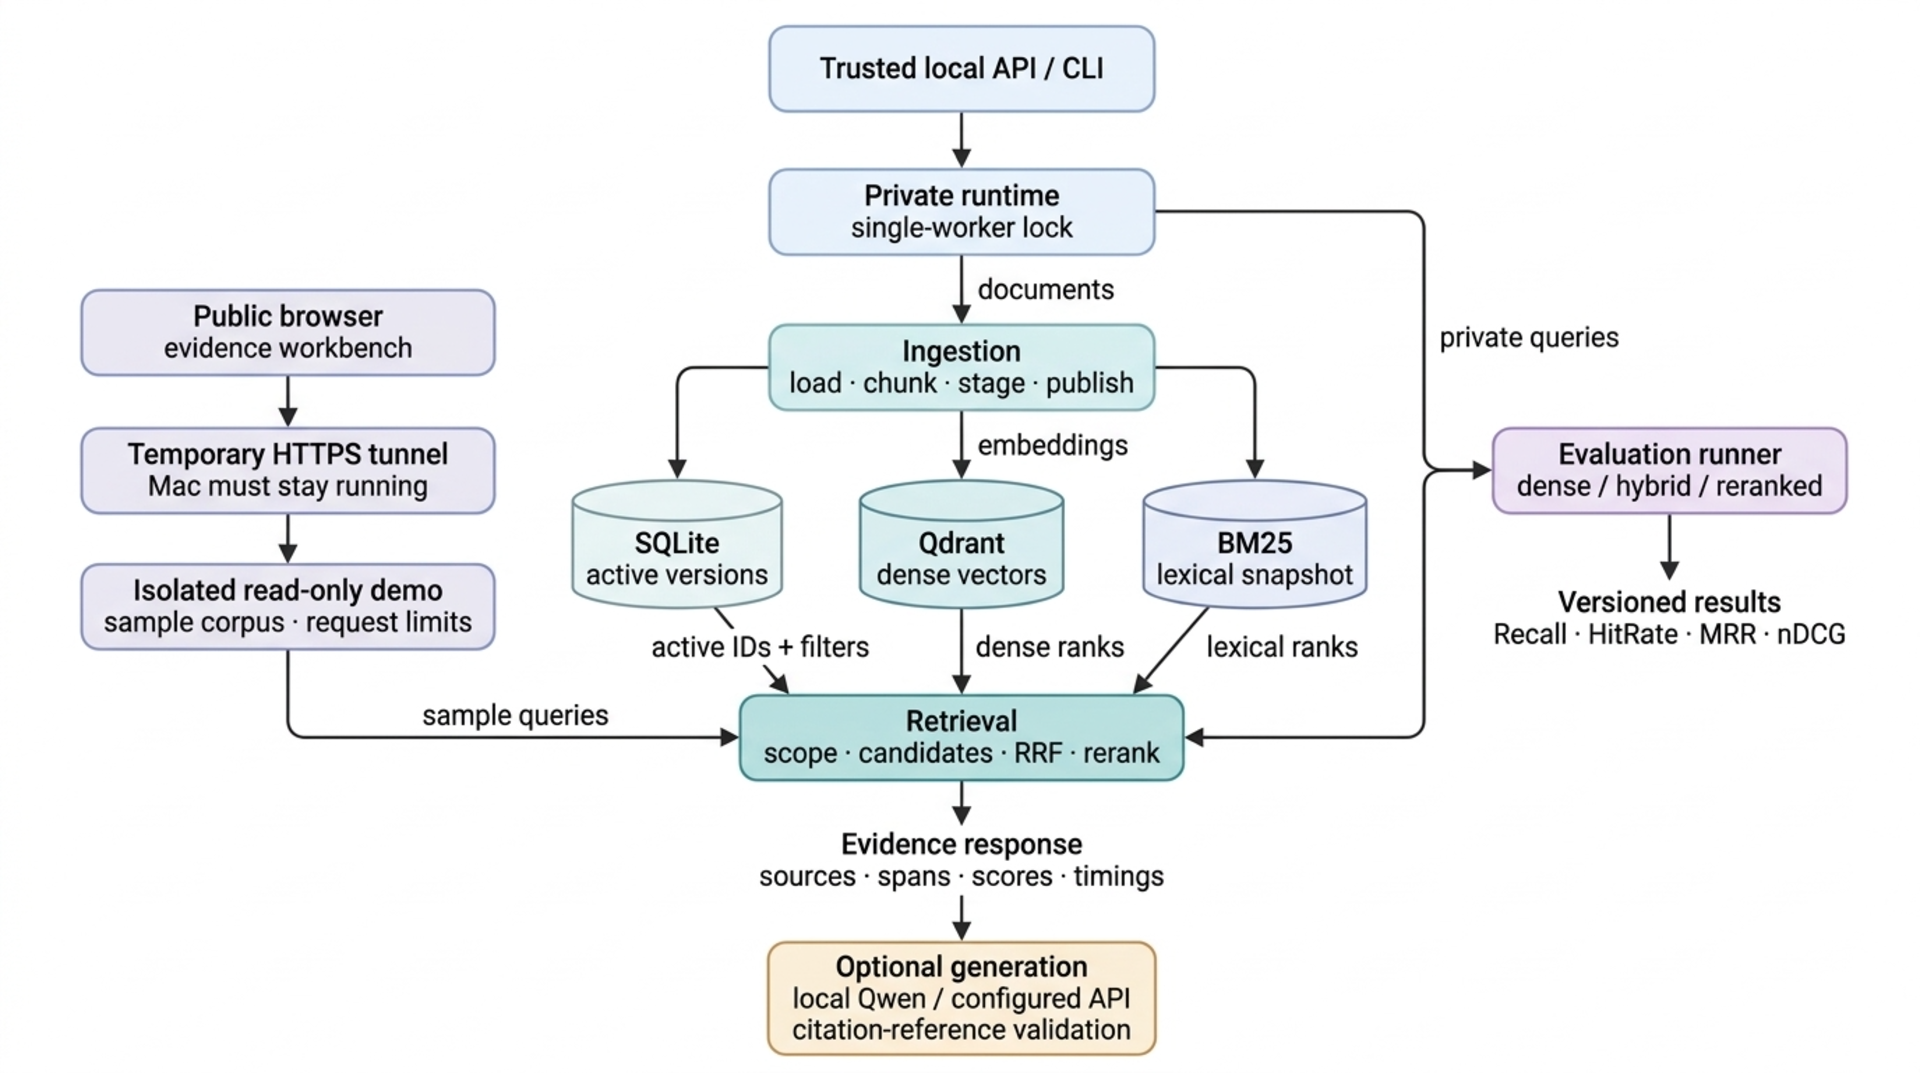
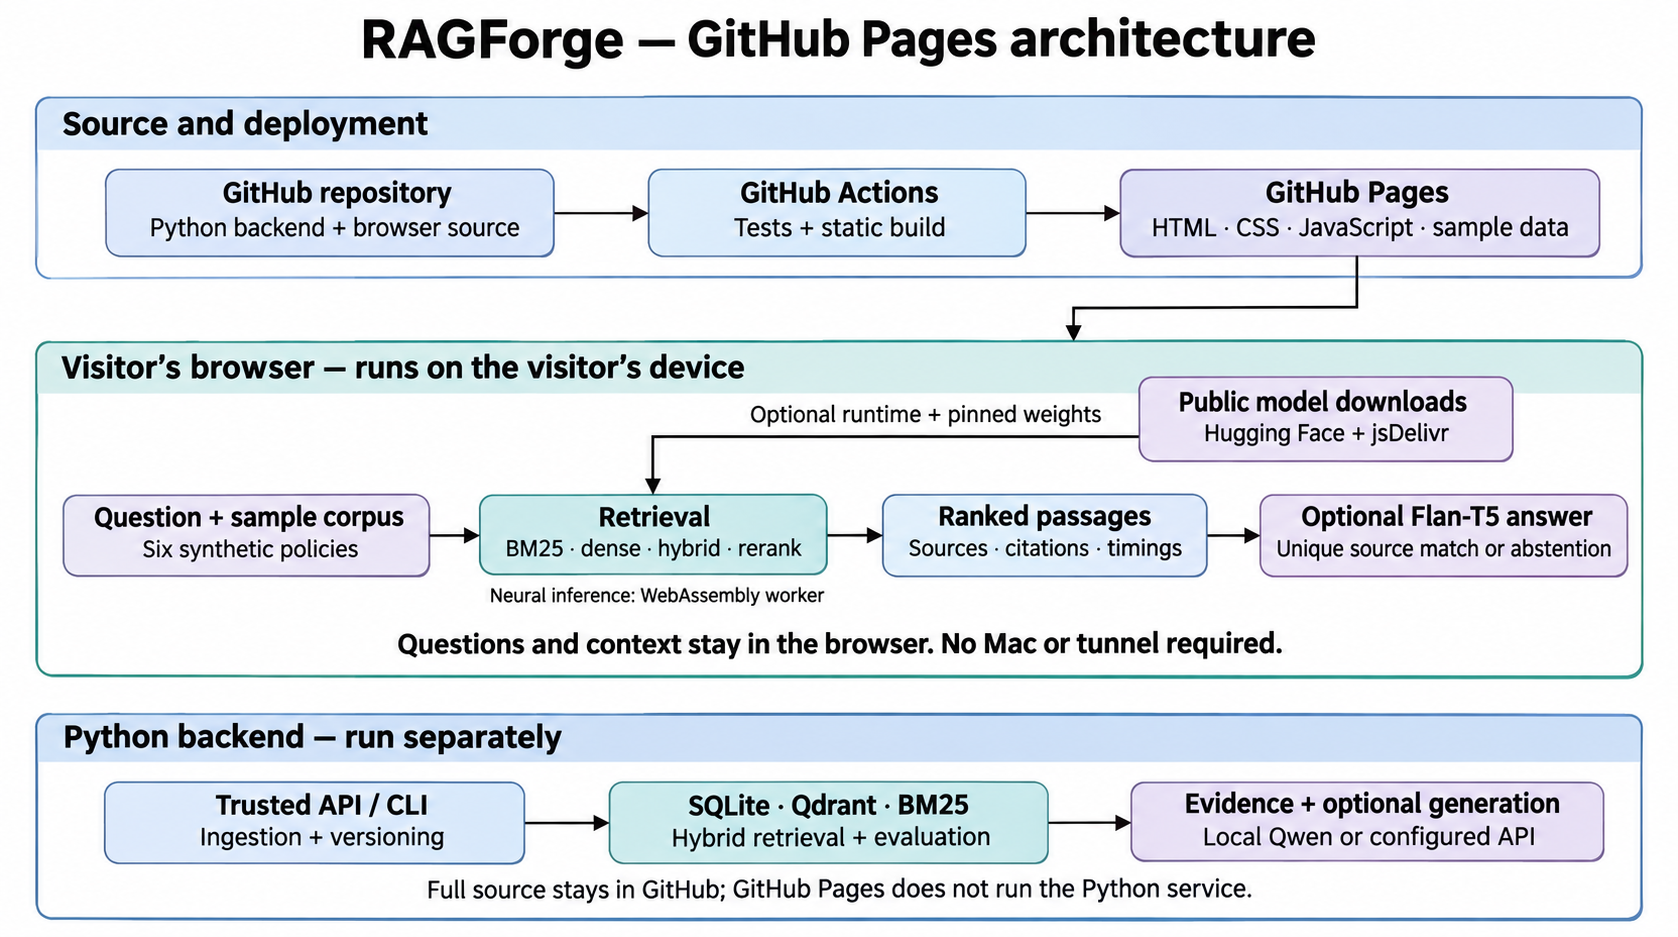
Update architecture diagram for GitHub Pages and browser inference

diff --git a/src/ragforge/demo/static/index.html b/src/ragforge/demo/static/index.html
@@ -59,10 +59,10 @@
       </section>
       <section id="architecture" hidden>
         <h1>Architecture</h1>
-        <p class="intro">In the hosted GitHub Pages edition, your browser ranks the documents and runs optional models in a worker. In the local edition, the Python server handles retrieval and generation.</p>
+        <p class="intro">In the GitHub Pages edition, GitHub Actions publishes the website and the visitor's browser runs retrieval and optional models. The local edition uses the separate Python backend.</p>
         <figure class="sheet">
-          <a href="./assets/architecture.png" aria-label="Open the full-size architecture diagram"><img src="./assets/architecture.png" alt="RAGForge architecture showing the original tunnel deployment and Python retrieval backend" loading="lazy"></a>
-          <figcaption>The original deployment routed requests through a tunnel to the Python backend. Select the diagram to inspect it at full size.</figcaption>
+          <a href="./assets/architecture.png" aria-label="Open the full-size architecture diagram"><img src="./assets/architecture.png" alt="RAGForge architecture: GitHub Actions deploys static files to GitHub Pages, the visitor's browser runs retrieval and optional Flan-T5 generation, and the Python backend runs separately" loading="lazy"></a>
+          <figcaption>The hosted demo runs on the visitor's device, with optional public model downloads. It needs no Mac or tunnel. Select the diagram to inspect it at full size.</figcaption>
         </figure>
       </section>
       <noscript>This workbench requires JavaScript to search its sample corpus.</noscript>

diff --git a/docs/architecture.md b/docs/architecture.md
@@ -1,22 +1,17 @@
 # RAGForge architecture
 
-RAGForge is an explicit, single-worker retrieval service. The API and CLI compose
-the same Python components; the evaluation runner exercises the same retrieval
-path. SQLite owns which document versions are visible. Qdrant and the lexical
-index are retrieval backends, not competing sources of truth.
+RAGForge has two execution paths: a public browser workbench hosted on GitHub
+Pages and a Python backend that can be run separately. Both implementations live
+in the same GitHub repository. The website does not depend on the Python service.
 
-## Backend diagram
+## Deployment diagram
 
-![Backend architecture and original tunnel deployment](architecture-1.png)
+![GitHub Pages deployment, browser retrieval and generation, and the separate Python backend](architecture-1.png)
 
-This supplied diagram is kept unchanged. The tunnel on its left describes the
-original Mac-hosted demo. The current public website uses the separate browser
-deployment below. Private queries and the evaluation runner both call the retrieval
-service; the evaluator measures retrieval rather than serving private queries.
-
-The backend and its isolated Python sample app use separate stores. They share
-component implementations, not private data. SQLite decides which document versions
-are active; Qdrant and BM25 supply rankings for eligible chunks.
+GitHub Actions tests the code, builds an allowlisted static artifact, and deploys
+that artifact to GitHub Pages. The visitor's browser loads the workbench and six
+synthetic policies. Keyword search is ready immediately; neural retrieval and
+answer generation download their models only when requested.
 
 ## Current public hosting
 
@@ -28,6 +23,7 @@ flowchart LR
     models["Pinned public ONNX weights"] -->|optional download| browser
     browser --> evidence["Ranked passages + citations"]
     evidence --> model["Optional Flan-T5 generation<br/>WebAssembly worker"]
+    models -->|optional download| model
 ```
 
 GitHub Pages serves static files; it does not run FastAPI, SQLite, Qdrant, or a
@@ -41,19 +37,15 @@ checked-in retrieval measurements belong to the Python backend. Browser timings
 are measured during each request and depend on the visitor's device.
 
 <details>
-<summary>Editable reference for the original Python deployment</summary>
+<summary>Python backend components</summary>
 
 ```mermaid
 flowchart TB
-    accTitle: RAGForge architecture and public demo boundary
-    accDescr: A trusted API and CLI ingest documents into a private runtime. The public browser reaches a separate sample-only read-only demo through a temporary HTTPS tunnel. Each runtime owns separate SQLite, Qdrant and BM25 stores. Retrieval fuses dense and lexical ranks, optionally reranks, and returns cited evidence before optional generation.
+    accTitle: RAGForge Python backend
+    accDescr: A trusted API and CLI ingest documents into a single-worker runtime. SQLite tracks active versions, Qdrant stores dense vectors, and BM25 provides lexical rankings. Retrieval returns cited evidence before optional generation. The evaluation runner measures this same retrieval path. This backend is run separately from the GitHub Pages website.
     caller["Trusted local API / CLI"]
     entry["Private runtime<br/>single-worker lock"]
     caller --> entry
-    browser["Public browser<br/>evidence workbench"]
-    tunnel["Temporary HTTPS tunnel<br/>Mac must stay running"]
-    demo["Isolated read-only demo<br/>sample corpus · request limits"]
-    browser --> tunnel --> demo
     ingest["Ingestion<br/>load · chunk · stage · publish"]
     entry -->|documents| ingest
     catalog[("SQLite<br/>active versions")]
@@ -64,7 +56,6 @@ flowchart TB
     ingest --> lexical
     search["Retrieval<br/>scope · candidates · RRF · rerank"]
     entry -->|private queries| search
-    demo -->|sample queries| search
     catalog -->|active IDs + filters| search
     vectors -->|dense ranks| search
     lexical -->|lexical ranks| search
@@ -77,11 +68,14 @@ flowchart TB
     evaluation --> results["Versioned results<br/>Recall · HitRate · MRR · nDCG"]
 ```
 
-The reference shows shared component types, **not shared data**: the Python demo
-constructs its own fresh runtime and sample-only stores. It never mounts the
-private API or reads an existing user index. Only the trusted API/CLI can ingest
-arbitrary documents. The demo publishes evidence, answers, sample corpus, and
-checked-in evaluation results; it has no mutation routes.
+The API and CLI compose the same Python components. SQLite owns which document
+versions are visible; Qdrant and BM25 supply rankings for eligible chunks. Private
+queries and the evaluation runner both call the retrieval service.
+
+The optional local Python sample app constructs its own fresh runtime and
+sample-only stores. It never mounts the private API or reads an existing user
+index. Only the trusted API/CLI can ingest arbitrary documents. The Python sample
+app has no mutation routes. It is a separate way to run the workbench locally.
 
 Solid lines show the core path. Dashed lines require an enabled answer provider.
 Dense-only evaluation bypasses BM25/fusion; hybrid evaluation adds BM25 and RRF;
@@ -89,8 +83,9 @@ the reranked configuration also reranks the fused candidates.
 
 </details>
 
-The supplied [PNG](architecture-1.png) is the canonical presentation image. It is
-not generated by the Mermaid references above.
+The [PNG](architecture-1.png) is the presentation diagram used in the README and
+website. The Mermaid references provide editable descriptions of the deployment
+and backend paths.
 
 ## Consistency boundary
 

diff --git a/README.md b/README.md
@@ -113,11 +113,12 @@ These measurements describe the Python backend, not the browser's ONNX models.
 
 ## Architecture
 
-![System architecture](docs/architecture-1.png)
+![RAGForge architecture: GitHub Actions deploys to GitHub Pages; retrieval and optional generation run in the visitor's browser, with the Python backend available separately](docs/architecture-1.png)
 
-This diagram shows the backend and the original tunnel-based demo. Its “Mac must
-stay running” label applies to that older deployment. The current GitHub Pages
-demo runs in the visitor's browser. [Current hosting topology](docs/architecture.md)
+GitHub Actions builds the website and publishes it to GitHub Pages. Retrieval and
+optional model inference run in the visitor's browser. The full Python backend
+remains in this repository and can be run separately; it is not a service hosted
+by GitHub Pages. [Architecture and data flow](docs/architecture.md)
 
 ## Tests and containers
 

diff --git a/docs/verification.md b/docs/verification.md
@@ -153,9 +153,10 @@ recovery, staged-vector cleanup, chunking, metadata scope validation, and query
 score provenance. The release includes regression tests for the accepted findings.
 CLI input-error handling is also covered by regression tests.
 
-The original architecture reference was rendered and visually inspected. The
-current presentation image is the supplied PNG, copied unchanged into the docs
[1 lines of base64/hex data omitted]
+The architecture image now shows the GitHub Actions deployment, static GitHub
+Pages hosting, browser retrieval and optional generation, and the separately run
+Python backend. The README and website use identical copies. The previous
+tunnel diagram was replaced, and the surrounding descriptions were updated.
 The portfolio root contains exactly the ten requested project directories; only
 RAGForge is implemented.
 
